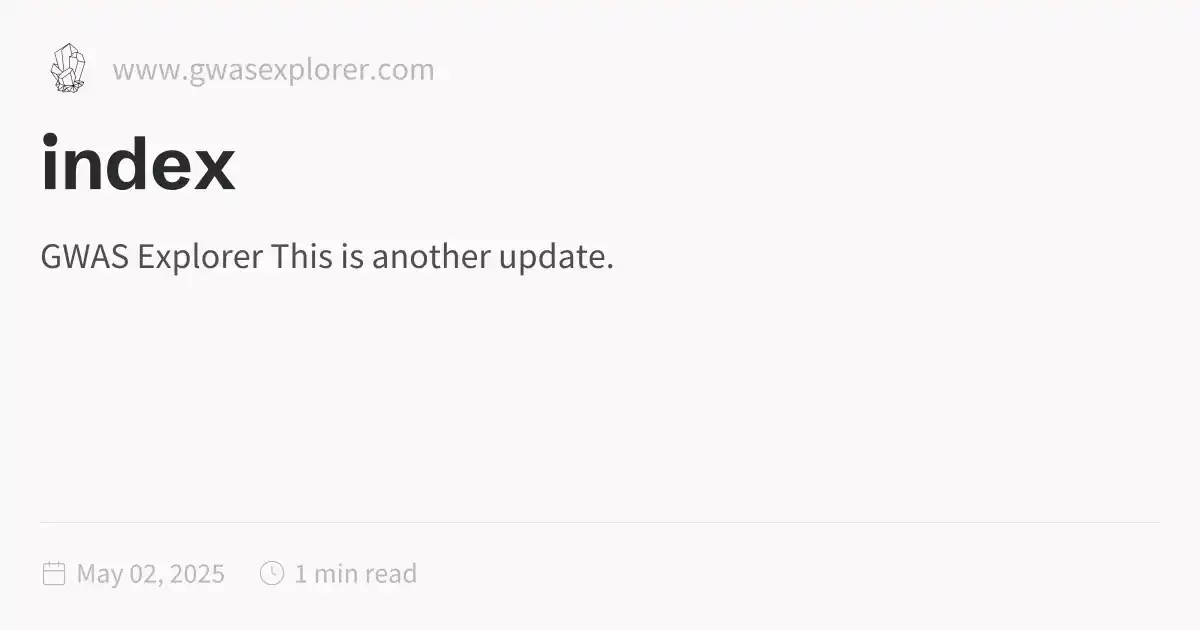
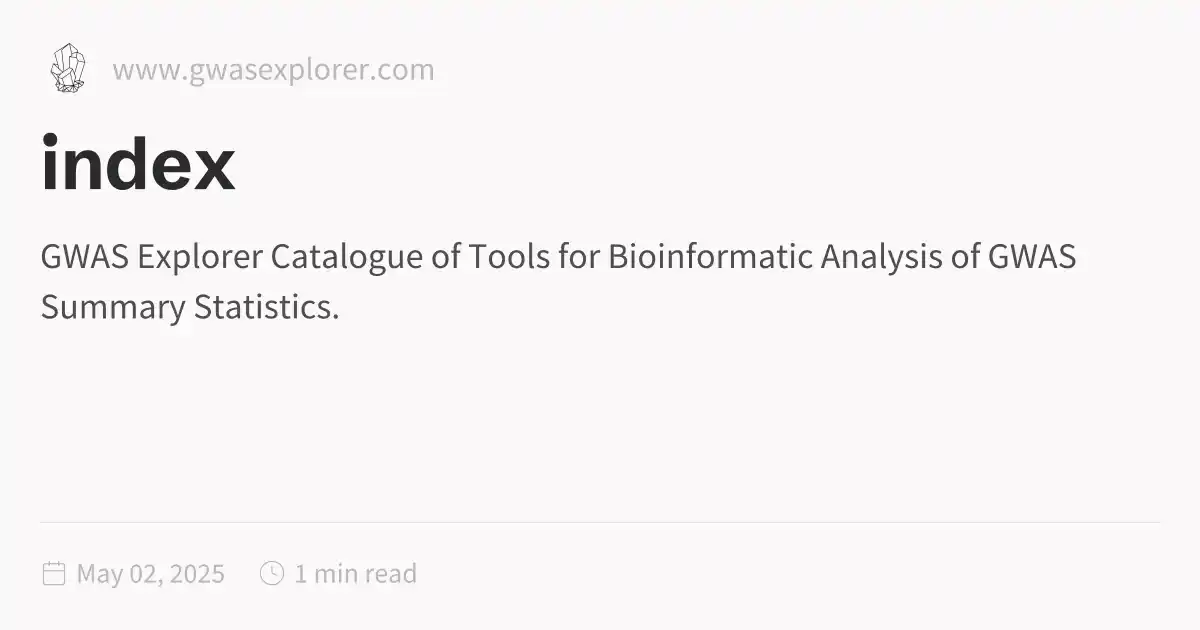
Update public folder - 2025-05-02\_1241

Changed region(s): [[0.2158, 0.3619, 0.8942, 0.4524], [0.0308, 0.4524, 0.2775, 0.5127]]

diff --git a/index.html b/index.html
@@ -1,5 +1,5 @@
 <!DOCTYPE html>
-<html lang="en"><head><title>index</title><meta charset="utf-8"/><link rel="preconnect" href="https://fonts.googleapis.com"/><link rel="preconnect" href="https://fonts.gstatic.com"/><link rel="stylesheet" href="https://fonts.googleapis.com/css2?family=Schibsted Grotesk:wght@400;700&amp;family=Source Sans Pro:ital,wght@0,400;0,600;1,400;1,600&amp;family=IBM Plex Mono:wght@400;600&amp;display=swap"/><link rel="preconnect" href="https://cdnjs.cloudflare.com" crossorigin="anonymous"/><meta name="viewport" content="width=device-width, initial-scale=1.0"/><meta name="og:site_name" content="GWAS Explorer"/><meta property="og:title" content="index"/><meta property="og:type" content="website"/><meta name="twitter:card" content="summary_large_image"/><meta name="twitter:title" content="index"/><meta name="twitter:description" content="GWAS Explorer This is another update."/><meta property="og:description" content="GWAS Explorer This is another update."/><meta property="og:image:alt" content="GWAS Explorer This is another update."/><meta property="twitter:domain" content="www.gwasexplorer.com"/><meta property="og:url" content="https://www.gwasexplorer.com/index"/><meta property="twitter:url" content="https://www.gwasexplorer.com/index"/><link rel="icon" href="./static/icon.png"/><meta name="description" content="GWAS Explorer This is another update."/><meta name="generator" content="Quartz"/><link href="./index.css" rel="stylesheet" type="text/css" spa-preserve/><style>.expand-button {
+<html lang="en"><head><title>index</title><meta charset="utf-8"/><link rel="preconnect" href="https://fonts.googleapis.com"/><link rel="preconnect" href="https://fonts.gstatic.com"/><link rel="stylesheet" href="https://fonts.googleapis.com/css2?family=Schibsted Grotesk:wght@400;700&amp;family=Source Sans Pro:ital,wght@0,400;0,600;1,400;1,600&amp;family=IBM Plex Mono:wght@400;600&amp;display=swap"/><link rel="preconnect" href="https://cdnjs.cloudflare.com" crossorigin="anonymous"/><meta name="viewport" content="width=device-width, initial-scale=1.0"/><meta name="og:site_name" content="GWAS Explorer"/><meta property="og:title" content="index"/><meta property="og:type" content="website"/><meta name="twitter:card" content="summary_large_image"/><meta name="twitter:title" content="index"/><meta name="twitter:description" content="GWAS Explorer Catalogue of Tools for Bioinformatic Analysis of GWAS Summary Statistics."/><meta property="og:description" content="GWAS Explorer Catalogue of Tools for Bioinformatic Analysis of GWAS Summary Statistics."/><meta property="og:image:alt" content="GWAS Explorer Catalogue of Tools for Bioinformatic Analysis of GWAS Summary Statistics."/><meta property="twitter:domain" content="www.gwasexplorer.com"/><meta property="og:url" content="https://www.gwasexplorer.com/index"/><meta property="twitter:url" content="https://www.gwasexplorer.com/index"/><link rel="icon" href="./static/icon.png"/><meta name="description" content="GWAS Explorer Catalogue of Tools for Bioinformatic Analysis of GWAS Summary Statistics."/><meta name="generator" content="Quartz"/><link href="./index.css" rel="stylesheet" type="text/css" spa-preserve/><style>.expand-button {
   position: absolute;
   display: flex;
   float: right;
@@ -116,8 +116,8 @@ pre:hover > .expand-button {
   padding: 0 12px;
   font-size: 14px;
 }
[1 lines of base64/hex data omitted]
-<p>This is another update</p></article><hr/><div class="page-footer"></div></div><div class="right sidebar"><div class="graph"><h3>Graph View</h3><div class="graph-outer"><div class="graph-container" data-cfg="{&quot;drag&quot;:true,&quot;zoom&quot;:true,&quot;depth&quot;:1,&quot;scale&quot;:1.1,&quot;repelForce&quot;:0.5,&quot;centerForce&quot;:0.3,&quot;linkDistance&quot;:30,&quot;fontSize&quot;:0.6,&quot;opacityScale&quot;:1,&quot;showTags&quot;:true,&quot;removeTags&quot;:[],&quot;focusOnHover&quot;:false,&quot;enableRadial&quot;:false}"></div><button class="global-graph-icon" aria-label="Global Graph"><svg version="1.1" xmlns="http://www.w3.org/2000/svg" xmlns:xlink="http://www.w3.org/1999/xlink" x="0px" y="0px" viewBox="0 0 55 55" fill="currentColor" xml:space="preserve"><path d="M49,0c-3.309,0-6,2.691-6,6c0,1.035,0.263,2.009,0.726,2.86l-9.829,9.829C32.542,17.634,30.846,17,29,17
[1 lines of base64/hex data omitted]
+<p>Catalogue of Tools for Bioinformatic Analysis of GWAS Summary Statistics</p></article><hr/><div class="page-footer"></div></div><div class="right sidebar"><div class="graph"><h3>Graph View</h3><div class="graph-outer"><div class="graph-container" data-cfg="{&quot;drag&quot;:true,&quot;zoom&quot;:true,&quot;depth&quot;:1,&quot;scale&quot;:1.1,&quot;repelForce&quot;:0.5,&quot;centerForce&quot;:0.3,&quot;linkDistance&quot;:30,&quot;fontSize&quot;:0.6,&quot;opacityScale&quot;:1,&quot;showTags&quot;:true,&quot;removeTags&quot;:[],&quot;focusOnHover&quot;:false,&quot;enableRadial&quot;:false}"></div><button class="global-graph-icon" aria-label="Global Graph"><svg version="1.1" xmlns="http://www.w3.org/2000/svg" xmlns:xlink="http://www.w3.org/1999/xlink" x="0px" y="0px" viewBox="0 0 55 55" fill="currentColor" xml:space="preserve"><path d="M49,0c-3.309,0-6,2.691-6,6c0,1.035,0.263,2.009,0.726,2.86l-9.829,9.829C32.542,17.634,30.846,17,29,17
                 s-3.542,0.634-4.898,1.688l-7.669-7.669C16.785,10.424,17,9.74,17,9c0-2.206-1.794-4-4-4S9,6.794,9,9s1.794,4,4,4
                 c0.74,0,1.424-0.215,2.019-0.567l7.669,7.669C21.634,21.458,21,23.154,21,25s0.634,3.542,1.688,4.897L10.024,42.562
                 C8.958,41.595,7.549,41,6,41c-3.309,0-6,2.691-6,6s2.691,6,6,6s6-2.691,6-6c0-1.035-0.263-2.009-0.726-2.86l12.829-12.829
